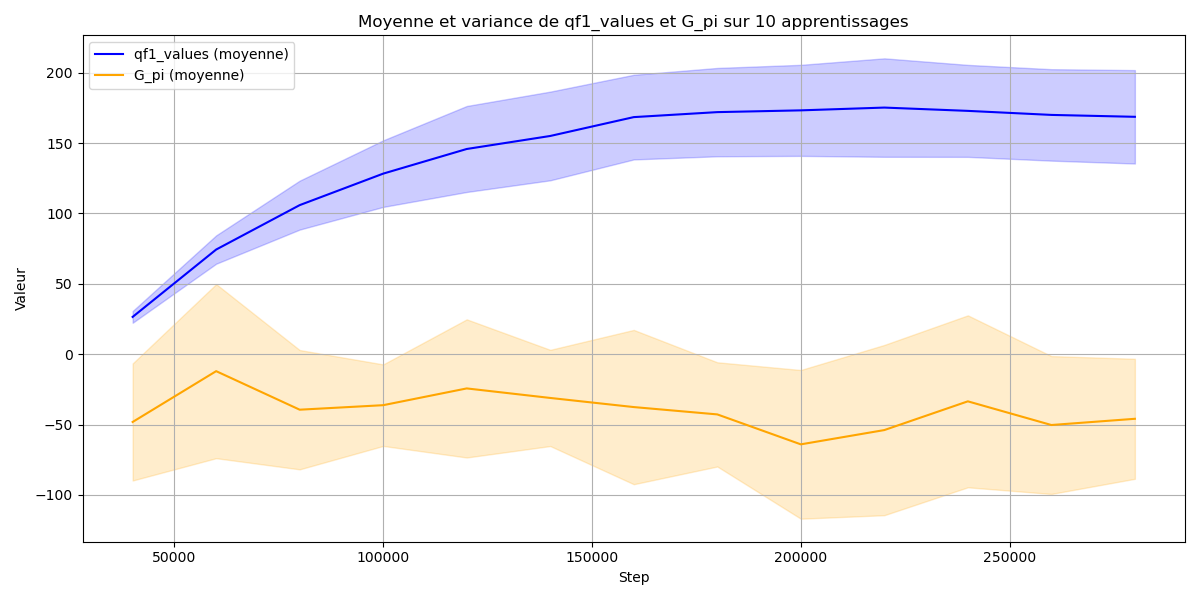
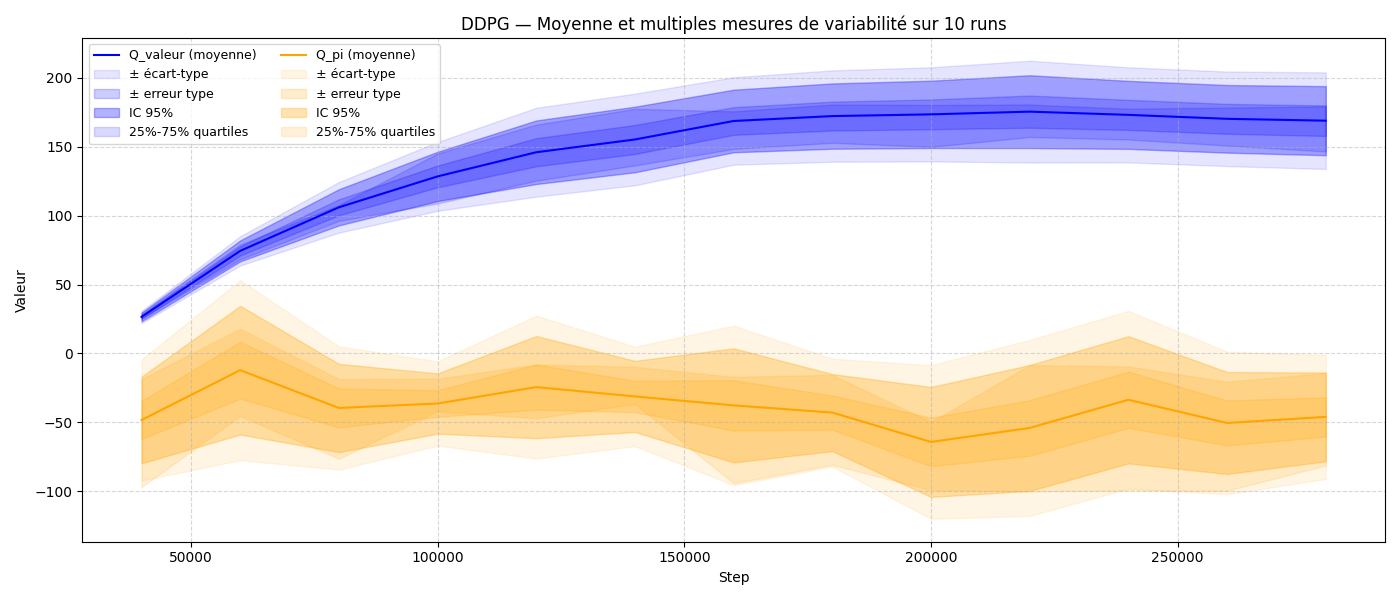
last commit

diff --git a/plot_DDPG/heat_map.py b/plot_DDPG/heat_map.py
@@ -2,20 +2,12 @@ import matplotlib.pyplot as plt
 import numpy as np
 from tensorboard.backend.event_processing import event_accumulator
 import json
-
-log_dirs = [
-    "..\\src\\runs\\LunarLanderContinuous-v3__ddpg_monte_carlo_continuous_action__1__1760473491",
-    "..\\src\\runs\\LunarLanderContinuous-v3__ddpg_monte_carlo_continuous_action__2__1760481683",
-    "..\\src\\runs\\LunarLanderContinuous-v3__ddpg_monte_carlo_continuous_action__3__1760494865",
-    "..\\src\\runs\\LunarLanderContinuous-v3__ddpg_monte_carlo_continuous_action__4__1760500427",
-    "..\\src\\runs\\LunarLanderContinuous-v3__ddpg_monte_carlo_continuous_action__5__1760505781",
-    "..\\src\\runs\\LunarLanderContinuous-v3__ddpg_monte_carlo_continuous_action__6__1760510240",
-    "..\\src\\runs\\LunarLanderContinuous-v3__ddpg_monte_carlo_continuous_action__7__1760519109",
-    "..\\src\\runs\\LunarLanderContinuous-v3__ddpg_monte_carlo_continuous_action__8__1760526606",
-    "..\\src\\runs\\LunarLanderContinuous-v3__ddpg_monte_carlo_continuous_action__9__1760536208",
-    "..\\src\\runs\\LunarLanderContinuous-v3__ddpg_monte_carlo_continuous_action__10__1760543190",
-]
-
+import matplotlib.patches as mpatches
+from scipy import stats
+import matplotlib.colors as mcolors
+from log_ddpg_td3 import *
+log_dirs = log_dirs_ddpg
+name = "DDPG"
 all_diffs = []  # Liste de matrices (n_runs × n_steps × len(G0))
 list_step = []
 for log in log_dirs:
@@ -31,7 +23,9 @@ for log in log_dirs:
     G0_events = ea.Tensors("losses/G0_list/text_summary")
 
     qf1_vals = np.array([e.value for e in qf1_events])
+
     list_step = np.array([e.step for e in qf1_events])
+
     # Extraction des listes G0 (elles sont stockées en texte dans TensorBoard)
     G0_lists = []
     for e in G0_events:
@@ -41,35 +35,57 @@ for log in log_dirs:
         except json.JSONDecodeError:
             continue
         G0_lists.append(np.array(g0))
-
+    
     # Alignement si besoin (tronquer au plus petit nombre d'étapes)
-    min_len = min(len(G0_lists), len(qf1_vals))
-    G0_lists = G0_lists[:min_len]
-    qf1_vals = qf1_vals[:min_len]
+
 
     # Calcul des différences G0 - qf1 pour chaque step
     diffs = []
+
     for g0, q in zip(G0_lists, qf1_vals):
-        diffs.append(g0 - q)
+        diffs.append(q - g0)
+
     diffs = np.vstack(diffs)  # shape = (n_steps, len(G0))
     all_diffs.append(diffs)
 
-# --- Moyenne sur les 10 runs ---
+all_diffs = np.array(all_diffs)
+# --- Calcul du t-test Student sur les runs pour chaque (step, index G0) ---
+n_runs, n_steps, len_g0 = all_diffs.shape
+t_stats = np.zeros((n_steps, len_g0))
+p_vals = np.zeros((n_steps, len_g0))
 
-mean_diffs = np.mean(all_diffs, axis=0)  # shape = (n_steps, len(G0))
+for s in range(n_steps):
+    for i in range(len_g0):
+        t, p = stats.ttest_1samp(all_diffs[:, s, i], 0.0)
+        t_stats[s, i] = t
+        p_vals[s, i] = p
 
-mean_diffs_sorted = np.sort(mean_diffs, axis=1)
+# --- Heatmap des t-stat ---
 
-
-
-# --- Heatmap ---
+norm = mcolors.TwoSlopeNorm(vmin=-np.max(np.abs(t_stats)), vcenter=0.0, vmax=np.max(np.abs(t_stats)))
 plt.figure(figsize=(10, 8))
-im = plt.imshow(mean_diffs_sorted, aspect="auto", cmap="coolwarm", origin="lower",
-                extent=[0, mean_diffs.shape[1], list_step[0], list_step[-1]])
+im = plt.imshow(
+    t_stats,
+    aspect="auto",
+    cmap="coolwarm",
+    origin="lower",
+    extent=[0, len_g0, list_step[0], list_step[-1]],
+    norm = norm
+)
 
-plt.colorbar(im, label="G0 - Q_pi (moyenne sur 10 runs)")
-plt.xlabel("liste des G0 - Q_pi (dans l'ordre croissant)")
+
+# --- Ajout de la légende explicite ---
+red_patch = mpatches.Patch(color=plt.cm.coolwarm(1.0), label="Sur-estimation (Q_val > G₀)")
+blue_patch = mpatches.Patch(color=plt.cm.coolwarm(0.0), label="Sous-estimation (Q_val < G₀)")
+plt.legend(
+    handles=[red_patch, blue_patch],
+    loc="upper right",
+    frameon=True,
+    title="Interprétation des couleurs"
+)
+plt.colorbar(im, label="t-stat (Student test : Q_val - Gt)")
+plt.xlabel("Index dans Gt_list")
 plt.ylabel("Step")
-plt.title("Heatmap des différences moyennes G0 - Q_valeur triées à l’intérieur de chaque step")
+plt.title(f"{name} Heatmap des t-statistiques du test de Student (sur/sous-estimation de Q)")
 plt.tight_layout()
 plt.show()

diff --git a/plot_DDPG/plot_300000step.py b/plot_DDPG/plot_300000step.py
@@ -1,22 +1,20 @@
 import matplotlib.pyplot as plt
 import numpy as np
 from tensorboard.backend.event_processing import event_accumulator
+from scipy import stats
 
 from log_ddpg_td3 import *
-
-
 
 # --- Lecture des données ---
 all_qf1 = []
 all_Gpi = []
 steps = None
-name = "TD3"
-log_dirs = log_dirs_td3
+name = "DDPG"
+log_dirs = log_dirs_ddpg
+
 for log in log_dirs:
     ea = event_accumulator.EventAccumulator(log)
     ea.Reload()
-
-    # Vérifie que les tags existent
     tags = ea.Tags()["scalars"]
     if "losses/qf1_values" not in tags or "losses/G_pi" not in tags:
         print(f"[WARN] Tags manquants dans {log}")
@@ -24,41 +22,61 @@ for log in log_dirs:
 
     qf1_events = ea.Scalars("losses/qf1_values")
     Gpi_events = ea.Scalars("losses/G_pi")
-
-    # Récupère les steps et valeurs
     qf1_vals = np.array([e.value for e in qf1_events])
     Gpi_vals = np.array([e.value for e in Gpi_events])
-    steps = np.array([e.step for e in qf1_events])  # mêmes steps supposés
+    steps = np.array([e.step for e in qf1_events])
 
     all_qf1.append(qf1_vals)
     all_Gpi.append(Gpi_vals)
 
-# --- Conversion en tableaux numpy ---
 all_qf1 = np.array(all_qf1)  # shape = (n_runs, n_steps)
 all_Gpi = np.array(all_Gpi)
+n_runs = all_qf1.shape[0]
 
-# --- Calcul de la moyenne et de l'écart-type ---
+# --- Statistiques ---
 mean_qf1 = np.mean(all_qf1, axis=0)
-std_qf1 = np.std(all_qf1, axis=0)
+std_qf1 = np.std(all_qf1, axis=0, ddof=1)
+sem_qf1 = std_qf1 / np.sqrt(n_runs)
+ci95_qf1 = stats.t.ppf(0.975, n_runs-1) * sem_qf1
+q25_qf1 = np.percentile(all_qf1, 25, axis=0)
+q75_qf1 = np.percentile(all_qf1, 75, axis=0)
 
 mean_Gpi = np.mean(all_Gpi, axis=0)
-std_Gpi = np.std(all_Gpi, axis=0)
+std_Gpi = np.std(all_Gpi, axis=0, ddof=1)
+sem_Gpi = std_Gpi / np.sqrt(n_runs)
+ci95_Gpi = stats.t.ppf(0.975, n_runs-1) * sem_Gpi
+q25_Gpi = np.percentile(all_Gpi, 25, axis=0)
+q75_Gpi = np.percentile(all_Gpi, 75, axis=0)
 
 # --- Tracé ---
-plt.figure(figsize=(12, 6))
+plt.figure(figsize=(14, 6))
 
 # Qf1
-plt.plot(steps, mean_qf1, label="Q_values (moyenne)", color="blue")
-plt.fill_between(steps, mean_qf1 - std_qf1, mean_qf1 + std_qf1, color="blue", alpha=0.2)
+plt.plot(steps, mean_qf1, color="blue", label="Q_valeur (moyenne)")
+plt.fill_between(steps, mean_qf1 - std_qf1, mean_qf1 + std_qf1, color="blue", alpha=0.1, label="± écart-type")
+plt.fill_between(steps, mean_qf1 - sem_qf1, mean_qf1 + sem_qf1, color="blue", alpha=0.2, label="± erreur type")
+plt.fill_between(steps, mean_qf1 - ci95_qf1, mean_qf1 + ci95_qf1, color="blue", alpha=0.3, label="IC 95%")
+plt.fill_between(steps, q25_qf1, q75_qf1, color="blue", alpha=0.15, label="25%-75% quartiles")
 
 # G_pi
-plt.plot(steps, mean_Gpi, label="Q_pi (moyenne)", color="orange")
-plt.fill_between(steps, mean_Gpi - std_Gpi, mean_Gpi + std_Gpi, color="orange", alpha=0.2)
+plt.plot(steps, mean_Gpi, color="orange", label="Q_pi (moyenne)")
+plt.fill_between(steps, mean_Gpi - std_Gpi, mean_Gpi + std_Gpi, color="orange", alpha=0.1, label="± écart-type")
+plt.fill_between(steps, mean_Gpi - sem_Gpi, mean_Gpi + sem_Gpi, color="orange", alpha=0.2, label="± erreur type")
+plt.fill_between(steps, mean_Gpi - ci95_Gpi, mean_Gpi + ci95_Gpi, color="orange", alpha=0.3, label="IC 95%")
+plt.fill_between(steps, q25_Gpi, q75_Gpi, color="orange", alpha=0.15, label="25%-75% quartiles")
 
+# Axes et titre
 plt.xlabel("Step")
 plt.ylabel("Valeur")
-plt.title(f"{name} Moyenne et variance de Q_values et Q_pi sur 10 apprentissages")
-plt.legend()
-plt.grid(True)
+plt.title(f"{name} — Moyenne et multiples mesures de variabilité sur {n_runs} runs")
+plt.grid(True, linestyle="--", alpha=0.5)
+
+# Légende
+plt.legend(loc="upper left", fontsize=9, frameon=True, ncol=2)
+plt.figtext(0.5, -0.05,
+            "Bande ombrée : écart-type, erreur-type, intervalle de confiance 95%, quartiles 25%-75%\n"
+            "Moyenne calculée sur l'ensemble des runs",
+            ha="center", fontsize=9, style="italic")
+
 plt.tight_layout()
 plt.show()

diff --git a/plot_DDPG/log_ddpg_td3.py b/plot_DDPG/log_ddpg_td3.py
@@ -25,3 +25,10 @@ log_dirs_td3 = [
     "..\\src\\runs_td3\\LunarLanderContinuous-v3__td3_continuous_action__9__1760601115",
     "..\\src\\runs_td3\\LunarLanderContinuous-v3__td3_continuous_action__10__1760602590",
 ]
+
+log_dirs_ddpg_1000000 = [
+    "..\\cleanrl-master\\runs\\ddpg_1",
+    "..\\cleanrl-master\\runs\\LunarLanderContinuous-v3__ddpg_continuous_action__2__1760355381",
+    "..\\cleanrl-master\\runs\\LunarLanderContinuous-v3__ddpg_continuous_action__3__1760396155",
+    "..\\cleanrl-master\\runs\\LunarLanderContinuous-v3__ddpg_continuous_action__4__1760446278",
+]
